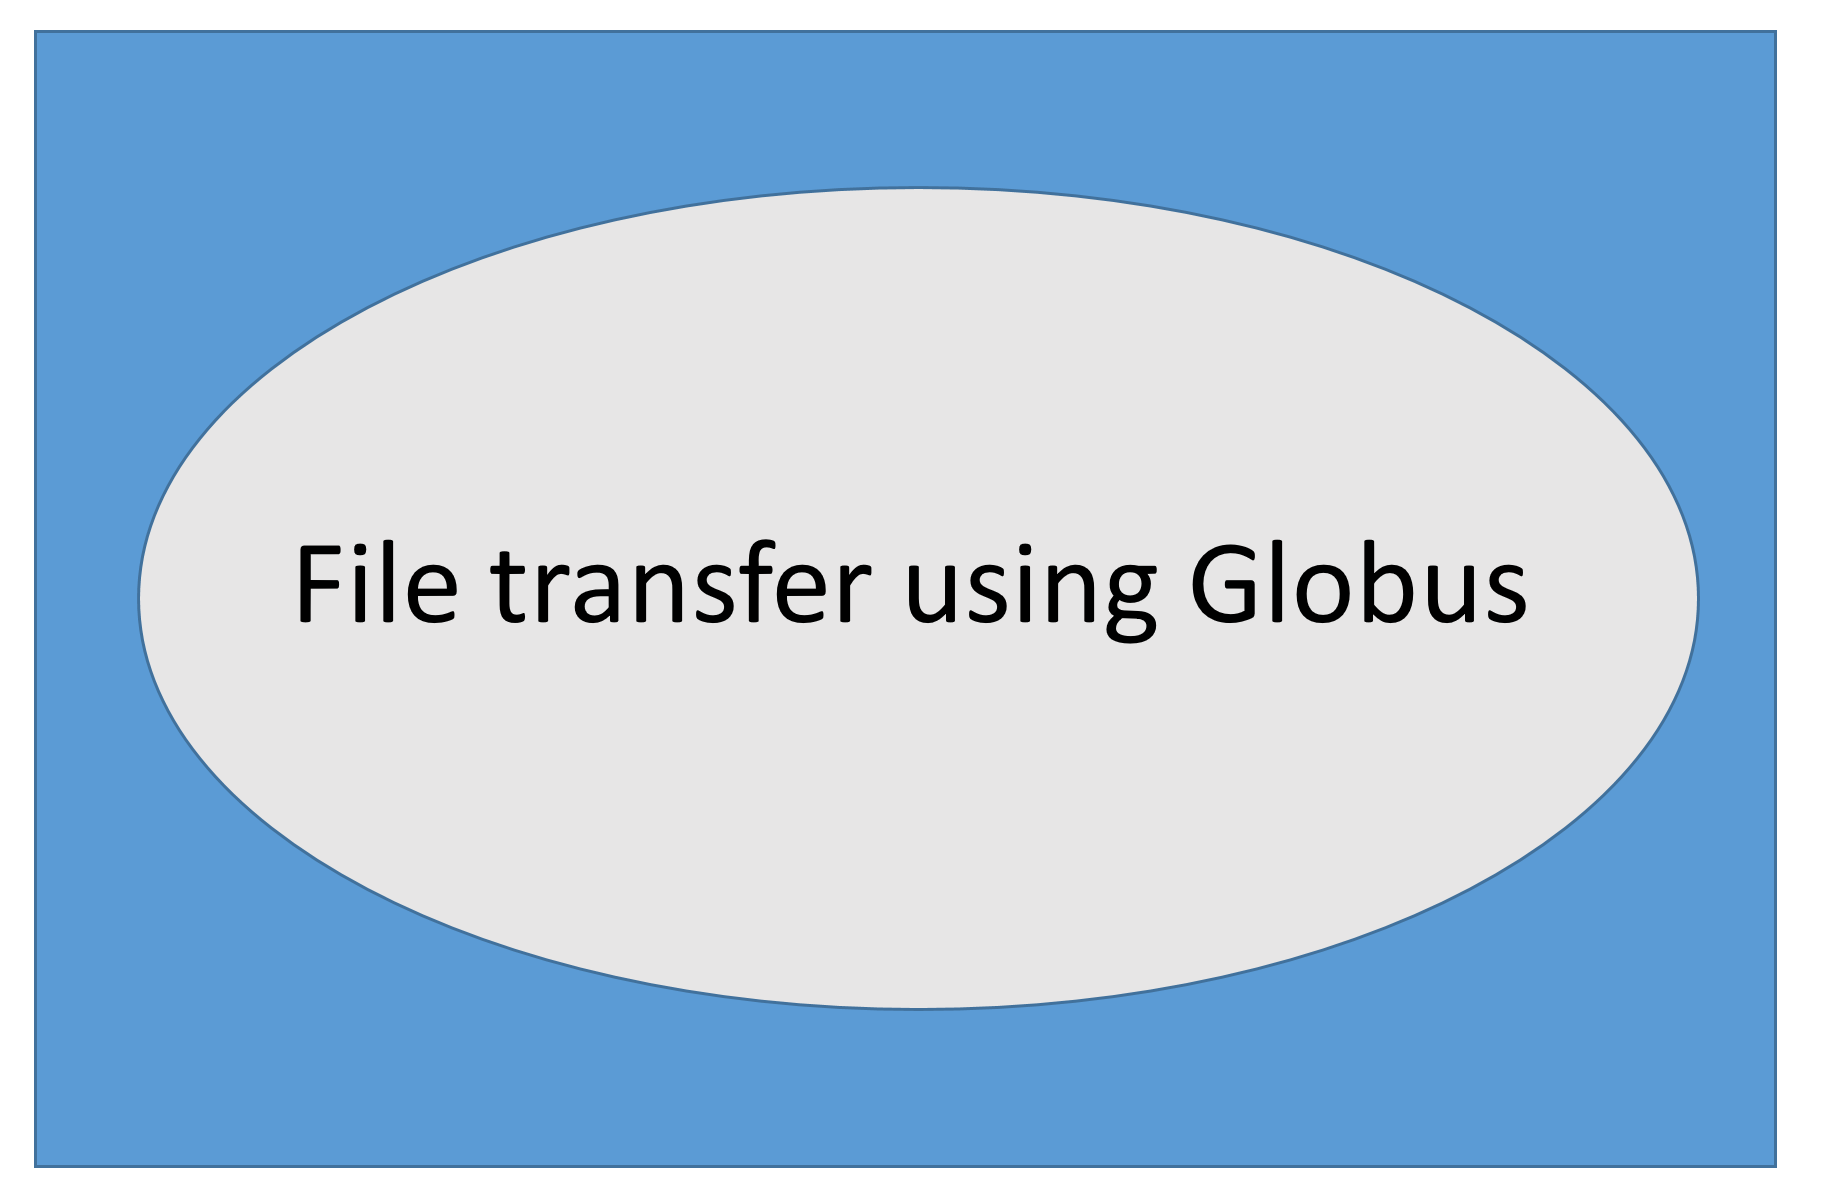
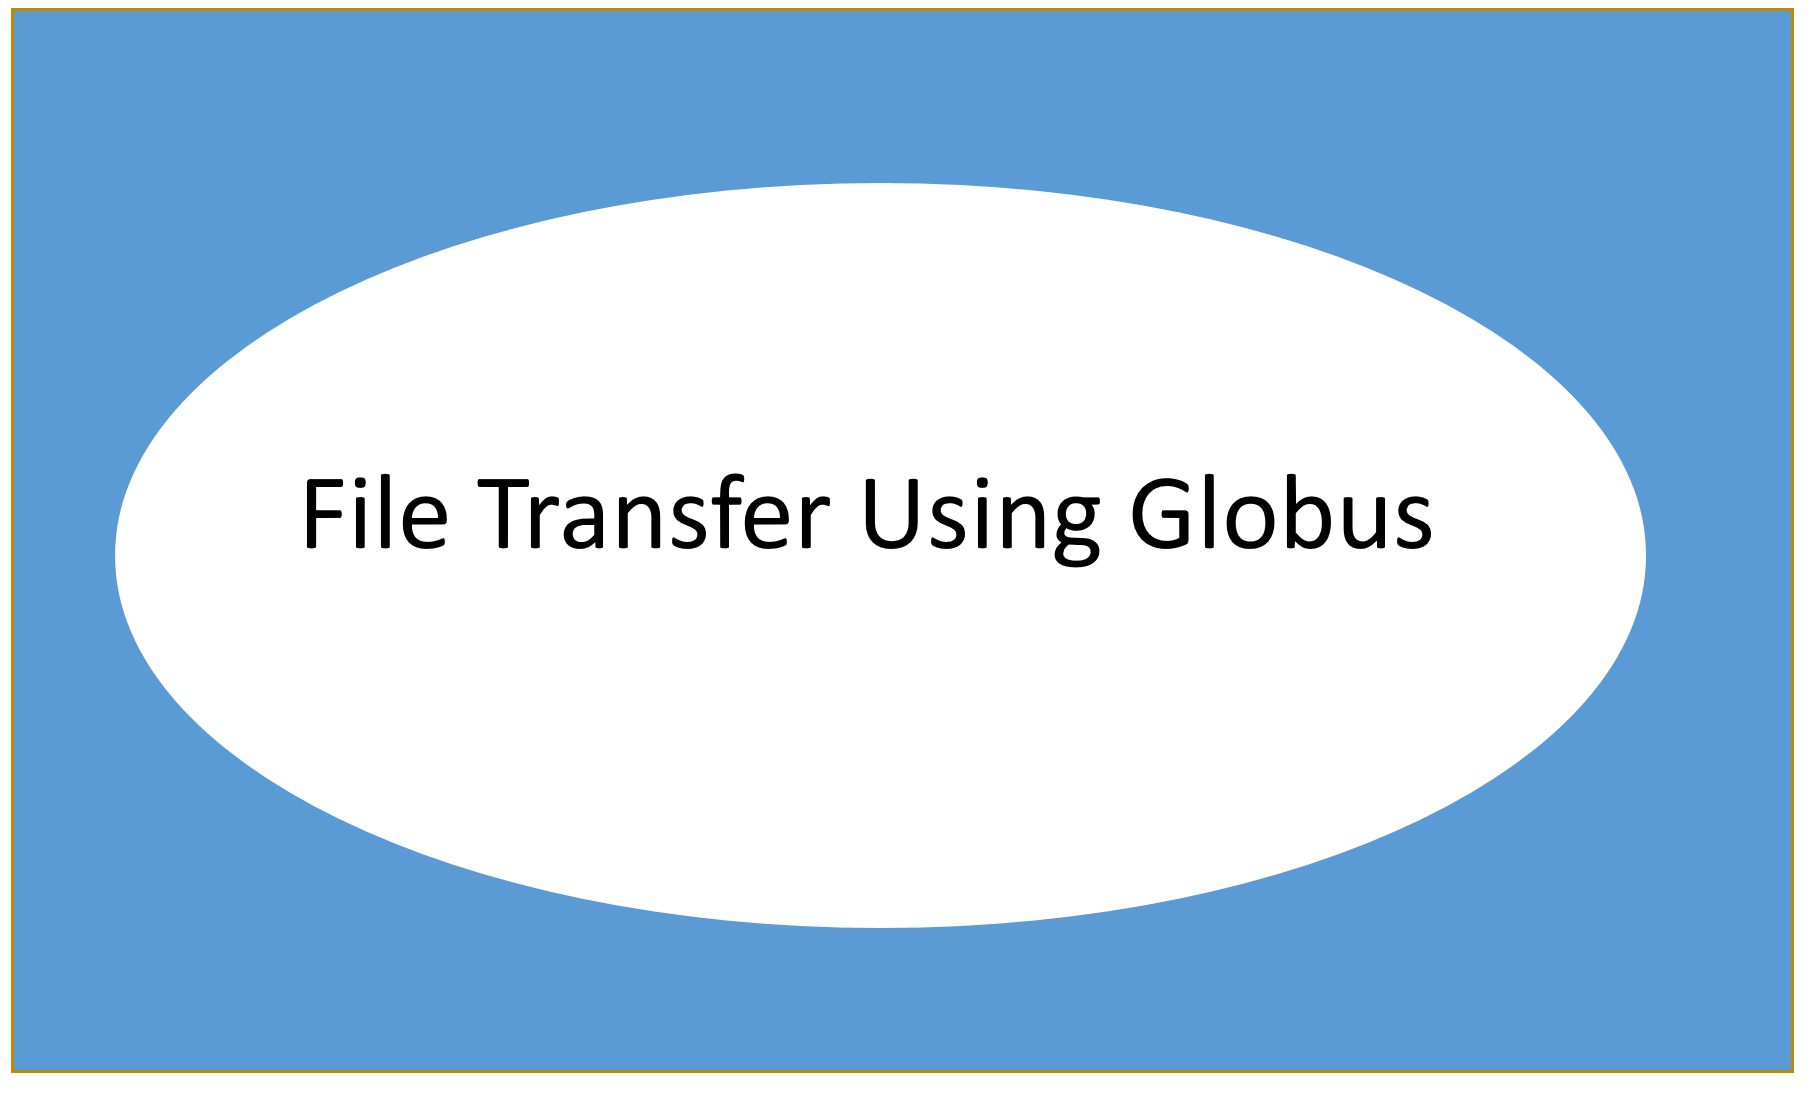
Final changes made

diff --git a/_portfolio/sciencedmz.md b/_portfolio/sciencedmz.md
@@ -1,0 +1,240 @@
+---
+layout: post
+title: Science DMZ
+img: "https://i.imgur.com/dhAxgpX.png"
+feature-img: "https://i.imgur.com/4KpVtQF.png"
+date: June, 19 2020
+---
+
+The Science DZ Network is a network or a portions of network, designed to facilitate the transfer of  big science data.
+
+The current cyber-infrastructure, today’s general-purpose networks, also referred to as enterprise networks, are capable of efficiently transporting basic data. These networks support multiple missions, including organizations’ operational services such as email, procurement systems, and web browsing, However we may find some difficulties when transferring terabyte and petabyte-scale science data.
+
+Where as the science DMZ network is designed to facilitate the transfer of big science data across wide area networks (WANs), typically at rates of 10 Gbps and above.
+
+<h2> Common Design goals of Science DMZ and Campus enterprise network </h2>
+
+1)To serve a large number of users and platforms: desktops, laptops, mobile devices, supercomputers, tablets, etc. 
+
+2)To support a variety of applications: email, browsing, voice, video, procurement systems, and others.
+
+3)To provide security against the multiple threats that result from the large number of applications and platforms. 
+
+4)To provide a level of Quality of Service (QoS) that satisﬁes user expectations. 
+
+<h2>Differences compared to a campus enterprise network</h2>
+
+The path from the Science DMZ to the WAN must involve as few network devices as possible, to minimize the possibility of packet losses at intermediate devices.
+The Science DMZ can also be considered as a security architecture, because it limits the application types and corresponding ﬂows supported by end devices.
+While ﬂows in enterprise networks are numerous and diverse, those in Science DMZs are usually well-identiﬁed, enabling security policies to be tied to those ﬂows.
+
+Definition: A ﬂow is deﬁned as a set of IP packets passing an observation point in the network during a certain time interval. All packets belonging to a particular ﬂow have a set of common properties. 
+
+<h2>SECURITY-RELATED DIFFERENCES BETWEEN ENTERPRISE NETWORKS AND SCIENCE DMZs</h2>
+
+![img_1](https://i.imgur.com/C86M9kf.png)
+
+<h2>Inventory of the Science DMZ features</h2>
+
+The main characteristics of a Science DMZ are the deployment of a friction-free path between end devices across the WAN, the use of DTNs, the active performance measurement and monitoring of the paths between the Science DMZ and the collaborator networks, and the use of access-control lists (ACLs) and ofﬂine security appliances. 
+
+<h3>1 . Friction-free network path</h3>
+
+The path has no devices that may add excessive delays or cause the packet to be delivered out of order; e.g., ﬁrewall, IPS, NAT. The rationale for this design choice is to prevent any packet loss or retransmission which can trigger a decrease in TCP throughput. 
+Data Transfer Nodes (DTNs) are connected to remote systems, such as collaborators’ networks, via the WAN. The high-latency path is composed of routers and switches which have large buffer sizes to absorb transitory packet bursts and prevent losses.
+
+<h3>2 . Dedicated high-performance DTNs</h3>
+
+These devices are typically Linux devices built and conﬁgured for receiving WAN transfers at high speed. They use optimized data transfer tools such as Globus, gridFTP.
+General-purpose applications (e.g., email clients, document editors, media players) are not installed. Having a narrow and speciﬁc set of applications simpliﬁes the design and enforcement of security policies.
+
+<h3>3 . Performance measurement and monitoring point</h3>
+
+Typically, there is a primary high-capacity path connecting the Science DMZ with the WAN. An essential aspect is to maintain a healthy path. In particular, identifying and eliminating soft failures in the network is critical for large data transfers.
+
+When soft failures occur, basic connectivity continues to exist but high throughput can no longer be achieved. Examples of soft failures include failing components and routers forwarding packets using the main CPU rather than the forwarding plane. Additionally, TCP was intentionally designed to hide transmission errors that may be caused by soft failures.
+
+The performance measurement and monitoring point provides an automated mechanism to actively measure end-to-end metrics such as throughput, latency, and packet loss. The most used tool is perfSONAR.
+
+<h3>4 . ACLs and ofﬂine security appliances</h3>
+
+The primary method to protect a Science DMZ is via router’s Access Control Lists (ACLs). Since ACLs are implemented in the forwarding plane of a router, they do not compromise the end-to-end throughput. Additional ofﬂine appliances include payload-based and ﬂow-based intrusion detection systems (IDSs).  
+
+![imgages and features](https://i.imgur.com/hwjejRB.png)
+
+<h2>Characteristics of Data Link Layer</h2>
+<ul>
+	<li>Enables data movement over a link from one device to another.</li>
+	<li>Media access control.</li>
+	<li>Packet addressing.</li>
+	<li>Formatting the frame that is used to encapsulate data.</li>
+	<li>Error notification on physical layer.</li>
+	<li>It orders bits and packets to and from data segments. This ensuing result is called as frames. They contain data that are set in an orderly manner.</li>
+	<li>Ensure error-free communication between two devices by correct transmission of frames.</li>
+</ul>
+
+<h2>Characteristics of Network Layer</h2>
+<ul>
+	<li>Responsible for establishing paths that are used for the transfer of data packets between network devices.</li>
+	<li>Traffic direction.</li>
+	<li>Addressing; Service and logical network addresses.</li>
+	<li>Routing.</li>
+	<li>Packet switching.</li>
+	<li>Controlling packet sequence.</li>
+	<li>Complete error detection; from sender to receiver.</li>
+	<li>Congestion control.</li>
+	<li>Gateway services.</li>
+</ul>
+
+<h2>Characteristics of Transport Layer</h2>
+<ul>
+	<li>Responsible for message delivery between the networked hosts. Messages are fragmented and reassembled by this layer. It also controls the reliability of any given link.</li>
+	<li>Guaranteed delivery of data.</li>
+	<li>Name resolution.</li>
+	<li>Flow control.</li>
+	<li>Error detection and recovery.</li>
+</ul>
+
+<h2>Characteristics of Transport Layer</h2>
+<ul>
+	<li>It works as an interface between the software and the network protocol on the computer. It provides services that are necessary to support the applications.</li>
+	<li>This layer provides interface for FTP applications.</li>
+</ul>
+
+<h2>Data link and Network Layers devices</h2>
+
+The essential functions performed by a router are 
+
+<ul>
+	<li>Routing </li>
+	<li>Forwarding </li>
+</ul>
+
+Routing refers to the determination of the route taken by packets. 
+Forwarding refers to the switching of a packet from the input port to the appropriate output port.
+
+Traditional routing approaches such as static and dynamic routing (Open Shortest Path First (OSPF), BGP ) are used in the implementation of Science DMZs.
+
+Routing events, such as routing table updates, occur at the millisecond, second, or minute timescale, on the other hand  with transmission rates of 10 Gbps and above, the forwarding operation occurs at the nanosecond timescale. 
+
+Best practices used in regular enterprise networks are applicable to Science DMZs.
+
+<h3>Switching</h3>
+
+![switching](https://i.imgur.com/YqJHn5g.png)
+
+The above image is an image of a generic router architecture. Modern routers may have a network processor (NP) and a table derived from the routing table in each port, which is referred to as the forwarding table (FT) or forwarding information base (FIB). 
+
+Router queues/buffers absorb trafﬁc ﬂuctuations. Even in the absence of congestion, ﬂuctuations are present, resulting mostly from coincident trafﬁc bursts.
+
+To avoid HOL blocking, many switches use output buffering, a mixture of internal and output buffering, or techniques emulating output buffering such as Virtual Output  Queueing  (VOQ).
+
+There are critical switching attributes that must be considered for a well-designed Science DMZ. These attributes are related to the characteristics of the science trafﬁc and the role of switches in mitigating packet losses.
+
+Traffic Profile: 
+
+At a switch, buffer size, forwarding or switching rate, and queues should be selected based on the trafﬁc proﬁle to be supported by the network. Enterprise networks and Science DMZs are subject to different trafﬁc proﬁles.
+
+Enterprise ﬂows are less sensitive than Science DMZ ﬂows to packet loss and throughput requirements. Typically, the size of ﬁles in enterprise applications is small. Even though packet losses reduce the TCP throughput, from a user perspective this reduction results in a modest increase of the data transfer time. On the other hand, Science DMZ applications typically transfer terabyte-scale ﬁles. Hence, even a very small packet loss rate can cause the TCP throughput to collapse below 1 Gbps, as a result, a terabyte-scale data transfer requires many additional hours or days to complete. 
+
+A well-designed Science DMZ is minimally sensitive to latency. One of the goals of the Science DMZ is to prevent packet loss and thus to sustain high throughput over high latency WANs. Hence, the Science DMZ uses dedicated DTNs and switches capable of absorbing transient bursts. It also avoids inline security appliances that may cause packets to be dropped or delivered out of order. By fulﬁlling these requirements, the achievable throughput can approach the full network capacity.
+
+Maximum Transmission Unit :
+The MTU has a prominent impact on TCP throughput. 
+
+![throughput](https://i.imgur.com/YxOgAgU.png)
+
+The throughput is directly proportional to the MSS. Congestion control algorithms perform multiple probes to see how much the network can handle. With high speed networks, using half a dozen or so small probes to see how the network responds wastes a huge amount of bandwidth. Similarly, when a packet loss is detected, the rate is decreased by a factor of two. TCP can only recover slowly from this rate reduction. The speed at which the recovery occurs is proportional to the MTU. Thus, for Science DMZs, it is recommended to use large frames. 
+
+Buffer size of output or transmission ports: 
+
+The buffer size of a router’s output port must be large enough, since packets from coincident arrivals from different input ports may be forwarded to the same output port. Additionally, buffers prevent packet losses when trafﬁc bursts occur. 
+
+‘ buffer size = C · RTT ‘
+
+It is also know as  bandwidth-delay product (BDP).
+
+Bufferbloat:
+
+While allocating sufﬁcient memory for buffering is desirable, it is also important to note that the term RTT in the above equation depends upon the use case at hand. Hence, allocating additional unneeded buffer space may result in more latency. This undesirable latency phenomenon is known as bufferbloat and can be mitigated by avoiding the over-allocation of buffers. 
+
+Routers and switches in a hierarchical network: 
+
+![switch-contd](https://i.imgur.com/BzWgjMJ.png)
+
+Above is a hierarchical network, The access layer represents the network edge, where trafﬁc enters or exits the network. In Science DMZs, usually DTNs, supercomputer, and research labs have access to the network through access layer switches. The distribution layer interfaces between the access layer and the core layer, aggregating trafﬁc from the access layer. The core layer is the network backbone. Core routers forward trafﬁc at very high speeds. In this simpliﬁed topology, the core is also the border router, connecting the network to the WAN. 
+
+Access-layer switches must support a range of trafﬁc capacity needs, sometimes starting as low as 10 Mbps and reaching to as much as 100 Gbps. This wide mix can strain the choice of buffers required, particularly on output switch ports connecting to the distribution layer. Speciﬁcally, buffer sizes must be large enough to absorb bursts from the end devices (DTNs, supercomputer, lab devices). 
+
+Distribution- and core-layer switches must have as much buffer space as possible to handle the bursts coming from the access-layer switches and from the WAN. Hence, attention must be paid to bandwidth capacity changes (e.g. aggregation of multiple smaller input ports into a larger output port). 
+
+Switches manufactured for datacenters may not be a good choice for Science DMZs. They often use fabrics based upon shared memory designs. In these designs, the size of the output buffers may not be tunable, which may become a key performance limitation during the transfer of large ﬂows.
+
+<h2>COMPARISON OF TRANSPORT-LAYER FEATURES IN ENTERPRISE NETWORKS AND SCIENCE DMZS</h2>
+
+![comparision](https://i.imgur.com/GTjoRdq.png)
+
+<h3>Network layer issues</h3>
+
+The table in the previous slide shows a comparison between enterprise networks and Science DMZs, regarding transport-layer features. Reliability is required for ﬁle and dataset transfers and therefore, Science DMZ applications use TCP. While TLS and SSL also offer reliable service and security on top of TCP, they introduce additional overhead and a redundant service. Globus, a well-known application-layer tool for transferring large ﬁles, offers conﬁdentiality, integrity and authentication services.
+
+The ﬂow control rate is managed by the TCP buffer size. For Science DMZ applications, the buffer size must be greater than or equal to the bandwidth-delay product. With this buffer size, TCP behaves as a pipelined protocol. On the other hand, general-purpose applications often use a small buffer size, which produces a stop-and-wait behavior. 
+
+If the TCP buffer size at DTNs is smaller than the bandwidth-delay product, the utilization of the channel is lower than 100%. The sender must constantly wait for acknowledgement segments before transmitting additional data segments. On the other hand, if the buffer size is greater than or equal to the bandwidth-delay product, the path utilization approaches the maximum capacity and many datasegments are allowed to be in transit while acknowledgement segments are simultaneously received. For small and short-duration ﬂows, this may not be essential. However, for large science ﬂows, to achieve full performance, the buffer size must be at least equal to the bandwidth-delay product. The MSS is perhaps one of the most important features in high-throughput high-latency networks with packet losses. TCP pacing is a promising feature. The challenge for its wide adoption is the complexity of developing a mechanism to discover the bottleneck link and its capacity.
+
+<h3>Application layer tools</h3>
+
+The essential end devices inside a Science DMZ are the DTNs and the performance monitoring stations. DTNs run a data transfer tool while monitoring stations run a performance monitoring application, typically perfSONAR. Other useful tools at deployment and evaluation times are WAN emulation and throughput measurement applications. These tools are convenient because they facilitate early performance evaluation without a need of connecting the Science DMZ to a real WAN.
+
+File Transfer Applications for Science DMZs :
+
+The prevalent tool for science data transfers is Globus gridFTP. As of 2017, there are over 40,000 Globus end points deployed. The following description corresponds to Globus, many of its features apply to other applications recommended for Science DMZs. 
+
+Other ﬁle transfer applications for big data are Multicore Aware Data Transfer Middleware FTP (mdtmFTP) and Fast Data Transport (FDT). mdtmFTP is designed to efﬁciently use the multiple computing cores (multicore CPUs) on a single chip that are common in modern computer systems. mdtmFTP also improves the throughput in DTNs that use a non-uniform memory access(NUMA) model. In the traditional Uniform Memory Access (UMA) model, the access to the RAM from any CPU or core takes the same amount of time. 
+
+ FDT is an application optimized for the transfer of a large number of ﬁles. Hence, thousands of ﬁles can be sent continuously, without restarting the network transfer between ﬁles. However, FDT and mdtmFTP have not been widely adopted despite encouraging performance results .
+
+<h3>Virtual Machines and Science DMZs</h3>
+
+The idea behind a virtual machine is to abstract the hardware of a computer into several execution environments. As a physical resource, access to a NIC is also shared. 
+
+![VM](https://i.imgur.com/A4Ux1zr.png)
+
+While virtual technologies have been widely adopted in enterprise networks, their use in Science DMZs has been discouraged for several reasons.
+
+The hypervisor represents a software layer that adds processing overhead.
+
+The physical NIC is potentially shared among multiple virtual machines.
+
+Even if the virtual DTN is the only virtual machine running on a physical server, the CPU must be shared with the hypervisor and the virtual switch.
+
+Commercial vendors may not disclose important attributes of the virtual switch, such as buffer size and switching architecture. 
+
+Taking the limitations stated above into consideration, virtualization is not recommended for Science DMZs operating at speeds above 10 Gbps.
+
+<h3>Monitoring and performance applications for science DMZs</h3>
+
+<ul>
+	<li>One of the essential elements of a Science DMZ is the performance measurement and monitoring point.</li>
+	<li>The monitoring process in Science DMZs focuses on multi-domain end-to-end performance metrics.</li>
+	<li> On the other hand, the monitoring process in enterprise networks focuses on single-domain performance metrics.</li>
+</ul>
+
+![monitoring](https://i.imgur.com/EqtE2zs.png)
+
+<h3>perfSONAR application</h3>
+
+perfSONAR is an application that helps locate network failures and maintain optimal end-to-end usage expectations.
+
+perfSONAR offers several services, including automated bandwidth tests and diagnostic tools.
+
+One of the main features of perfSONAR is its cooperative nature by which an institution can measure several metrics (e.g., throughput, latency, packet loss) to different intermediary domains and to a destination network. 
+
+Based on the below figure, campus network 1 can measure metrics from itself to campus network 2. Campus network 1 can also measure metrics to the service providers.
+
+![perfsonar](https://i.imgur.com/GuT0L3l.png)
+
+Comparisons can be drawn between SNMP and perfSONAR
+
+![comp-perfsonar](https://i.imgur.com/j43oZWd.png)
+

diff --git a/_portfolio/filetransfer.md b/_portfolio/filetransfer.md
@@ -1,7 +1,9 @@
 ---
 layout: post
-title: File Transfer using Globus
-img: "assets/img/portfolio/globus.png"
+title: File transfer using Globus
+img: "https://i.imgur.com/r4YlFcv.png"
+feature-img: "https://i.imgur.com/4KpVtQF.png"
+date: 08 June 2020
 ---
 
 Globus is a fast, reliable file transfer service that makes it easy for users to move data between two GridFTP servers or between a GridFTP server and a user’s machine (Windows, Mac or Linux). <br>
@@ -60,4 +62,3 @@ You can similarly, send an entire directory from one endpoint to another. In the
 The directory selected was successfully sent.
 
 ![img_13](https://i.imgur.com/dh2QVa7.png)
-

diff --git a/_portfolio/globus_cli.md b/_portfolio/globus_cli.md
@@ -1,0 +1,9 @@
+---
+layout: post
+title: Globus CLI
+feature-img: "https://i.imgur.com/4KpVtQF.png"
+img: "https://i.imgur.com/1gi8HCX.png"
+date: 08 June 2020
+---
+
+Tutorial coming soon !!!!!!!!!!!

diff --git a/_portfolio/tutorial-4.md b/_portfolio/tutorial-4.md
@@ -1,0 +1,10 @@
+---
+layout: post
+title: Tutorial-4
+feature-img: "https://i.imgur.com/4KpVtQF.png"
+img: "https://i.imgur.com/uqcpvD4.png"
+date: June, 19 2020
+---
+
+Coming soon !!!
+

diff --git a/_portfolio/tutorial-5.md b/_portfolio/tutorial-5.md
@@ -1,0 +1,10 @@
+---
+layout: post
+title: Tutorial-5
+feature-img: "https://i.imgur.com/4KpVtQF.png"
+img: "https://i.imgur.com/raipyru.png"
+date: June, 19 2020
+---
+
+Coming soon !!!
+

diff --git a/_portfolio/tutorial-1.md b/_portfolio/tutorial-1.md
@@ -1,0 +1,10 @@
+---
+layout: post
+title: Tutorial-1
+img: "https://i.imgur.com/HIYcHTR.png"
+feature-img: "https://i.imgur.com/4KpVtQF.png"
+date: June, 19 2020
+---
+
+Coming soon!!!
+

diff --git a/_portfolio/tutorial-3.md b/_portfolio/tutorial-3.md
@@ -1,0 +1,9 @@
+---
+layout: post
+title: Tutorial-3
+feature-img: "https://i.imgur.com/4KpVtQF.png"
+img: "https://i.imgur.com/5d83bSZ.png"
+date: June, 19 2020
+---
+
+Coming soon!!!!

diff --git a/_portfolio/tutorial-6.md b/_portfolio/tutorial-6.md
@@ -1,0 +1,9 @@
+---
+layout: post
+title: Tutorial-6
+feature-img: "https://i.imgur.com/4KpVtQF.png"
+img: "https://i.imgur.com/lNeoE2M.png"
+date: June, 19 2020
+---
+
+Coming Soon!!!!

diff --git a/_portfolio/tutorial-2.md b/_portfolio/tutorial-2.md
@@ -1,0 +1,9 @@
+---
+layout: post
+title: Tutorial-2
+img: "https://i.imgur.com/Hg56XWu.png"
+feature-img: "https://i.imgur.com/4KpVtQF.png"
+date: June, 19 2020
+---
+
+Coming soon!!!

diff --git a/_posts/2020-06-19-workshop-2.md b/_posts/2020-06-19-workshop-2.md
@@ -1,0 +1,11 @@
+---
+layout: post
+title: Workshop-2
+excerpt_separator: <!--more-->
+---
+
+Workshops Information coming soon!!
+
+
+
+

diff --git a/_posts/2020-06-19-workshop-1.md b/_posts/2020-06-19-workshop-1.md
@@ -1,0 +1,7 @@
+---
+layout: post
+title: Workshop-1
+excerpt_separator: <!--more-->
+---
+
+Workshops Information coming soon!!
